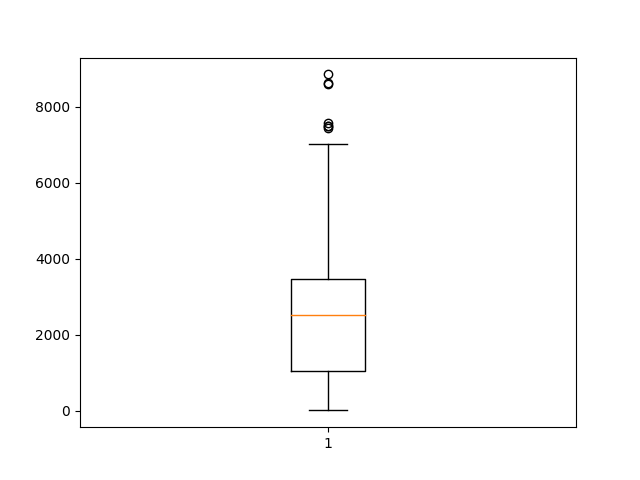
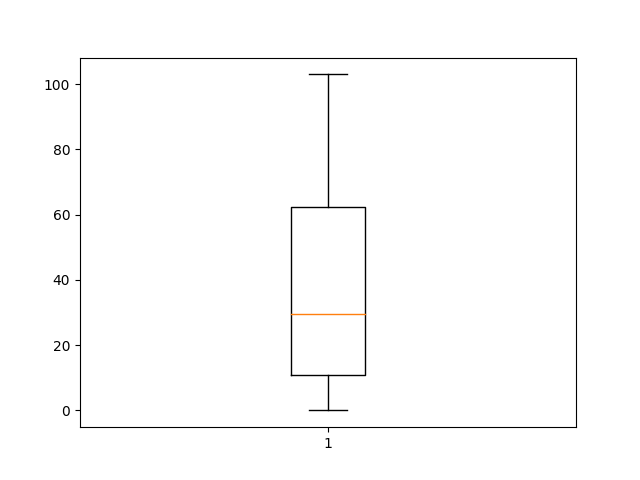
updatedupdated models and coded the multivar one  and added plots

diff --git a/test.py b/test.py
@@ -1,35 +1,25 @@
-from scipy import stats
-import numpy as np
-# Generate some data with outliers
-x = [-5, 6, 3, 4, 56]
-y = [10, 20, 30, 40, 50]
+from sklearn.linear_model import LinearRegression
+import pandas as pd
 
-# Convert the lists to numpy arrays
-x = np.array(x)
-y = np.array(y)
+# Load the data into a Pandas dataframe
+data = pd.read_csv('DataSet.csv')
 
-# Calculate the Z-score of each data point for y only
-y_z_scores = stats.zscore(y)
+# Define the independent variables and the dependent variable 
+#add th total area land area and water area to the independent variables
+X = 
+y = data['Maximum.elevation'].values.astype(float)
 
-# Remove data points with Z-score greater than 3 (or any other threshold) for y only
-threshold = 1
-y_filtered = y[abs(y_z_scores) < threshold]
+# Create the model and fit it to the data
+model = LinearRegression().fit(X, y)
 
-# Filter x data based on which y values were removed
-x_filtered = x[abs(y_z_scores) < threshold]
-
-print("Original x data:", x)
-print("Original y data:", y)
-print("Filtered x data:", x_filtered)
-print("Filtered y data:", y_filtered)
-
-# Plot the data
+# Print the coefficients for each independent variable
+# plot the data
 import matplotlib.pyplot as plt
-fig, (ax1, ax2) = plt.subplots(1, 2, figsize=(10, 5))
-ax1.plot(x)
-ax1.plot(x_filtered)
-ax1.set_title('X data')
-ax2.plot(y)
-ax2.plot(y_filtered)
-ax2.set_title('Y data')
+plt.scatter(X[:,0], y, color='red')
+plt.scatter(X[:,1], y, color='blue')
+plt.scatter(X[:,2], y, color='green')
+plt.title('Total Area vs Max Elevation', fontsize=14)
+plt.xlabel('Total Area', fontsize=14)
+plt.ylabel('Max Elevation', fontsize=14)
+plt.grid(True)
 plt.show()

diff --git a/LowestPointVsMaxEle.py b/LowestPointVsMaxEle.py
@@ -21,10 +21,10 @@ lowest_point_num,uniques=pd.factorize(lowest_point)
 x = lowest_point_num
 y = max_elevation
 
-'''fig, ax = plt.subplots()
-box = ax.boxplot(y)
-#plt.savefig("LM_boxplot.png")
-
+fig, ax = plt.subplots()
+box = ax.boxplot(x)
+plt.savefig("LM_boxplot.png")
+''' 
 # Get the whiskers and caps
 # Get the whiskers' data
 whiskers_data = [whiskers.get_ydata() for whiskers in box['whiskers']]
@@ -79,6 +79,6 @@ y1 = [β0 + β1 * x_data for x_data in x1]
 plt.xlabel("Lowest Point")
 plt.ylabel("Max Elevation")
 plt.title("Lowest Point vs Max Elevation")
-plt.savefig("low_point_vs_max_elevation1.png")
-plt.show()
+#plt.savefig("low_point_vs_max_elevation1.png")
+#plt.show()
 
